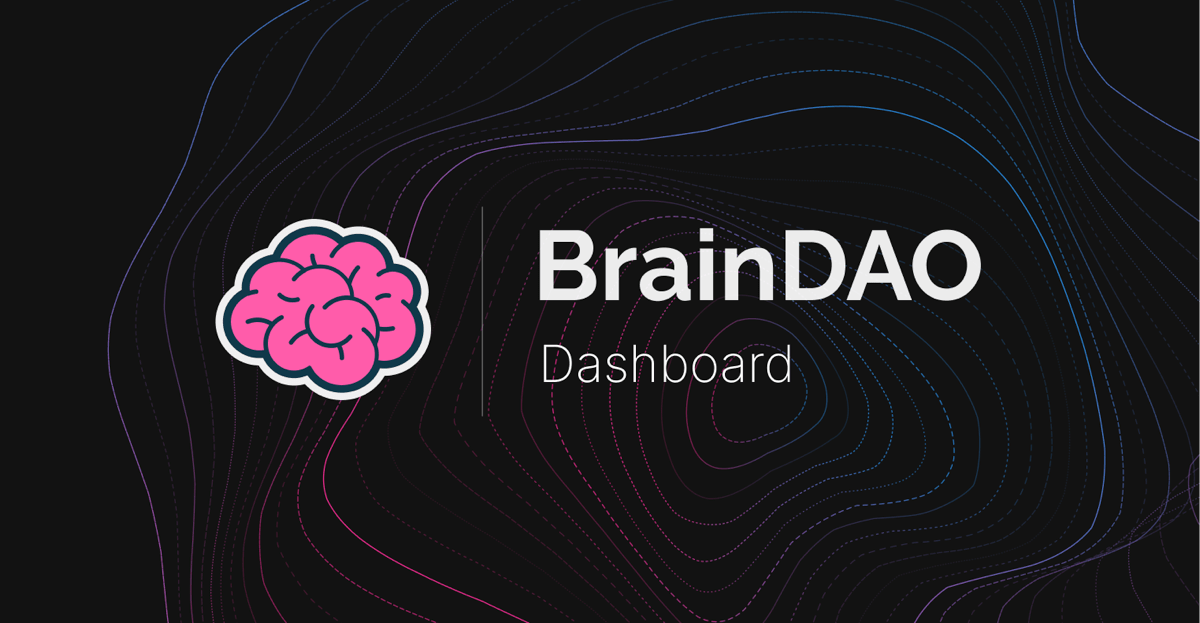
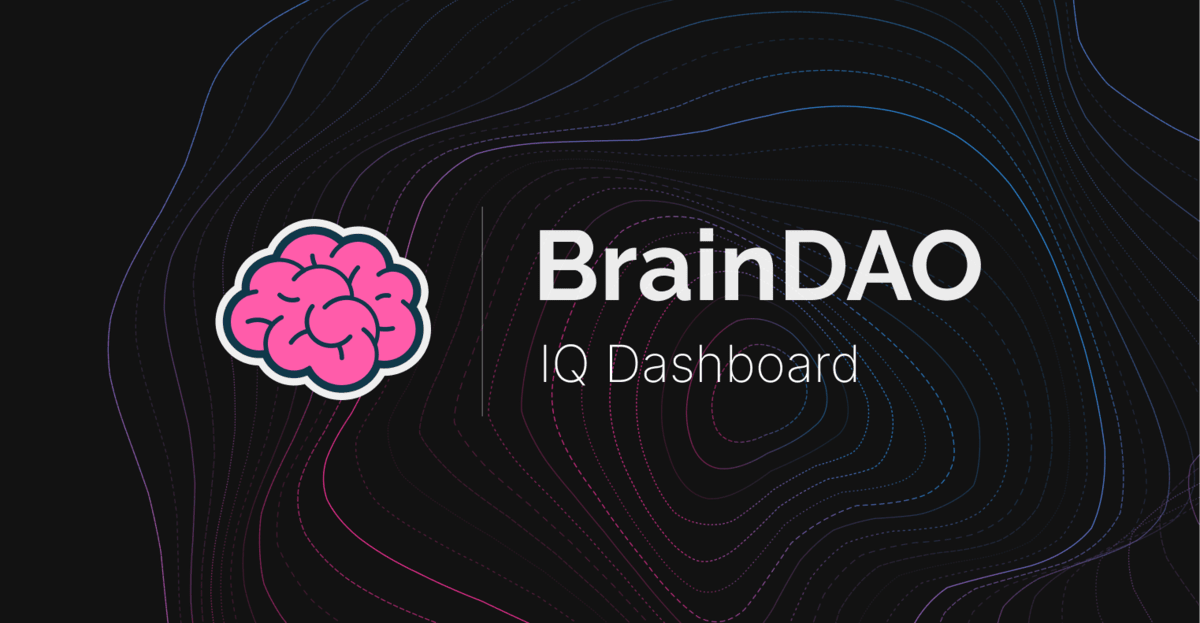
Updated og:image

Changed region(s): [[0.4625, 0.549, 0.74, 0.6404]]

diff --git a/src/components/SEO/Default.tsx b/src/components/SEO/Default.tsx
@@ -20,7 +20,7 @@ const SEOHeader = ({ router }: SEOHeaderProps) => (
       site_name: 'IQ Dashboard',
       images: [
         {
-          url: 'https://iq.braindao.org/og-image.png',
+          url: 'https://iq.braindao.org/og_image.png',
           alt: 'BrainDAO | native DAO and treasury of the IQ Token',
         },
       ],
